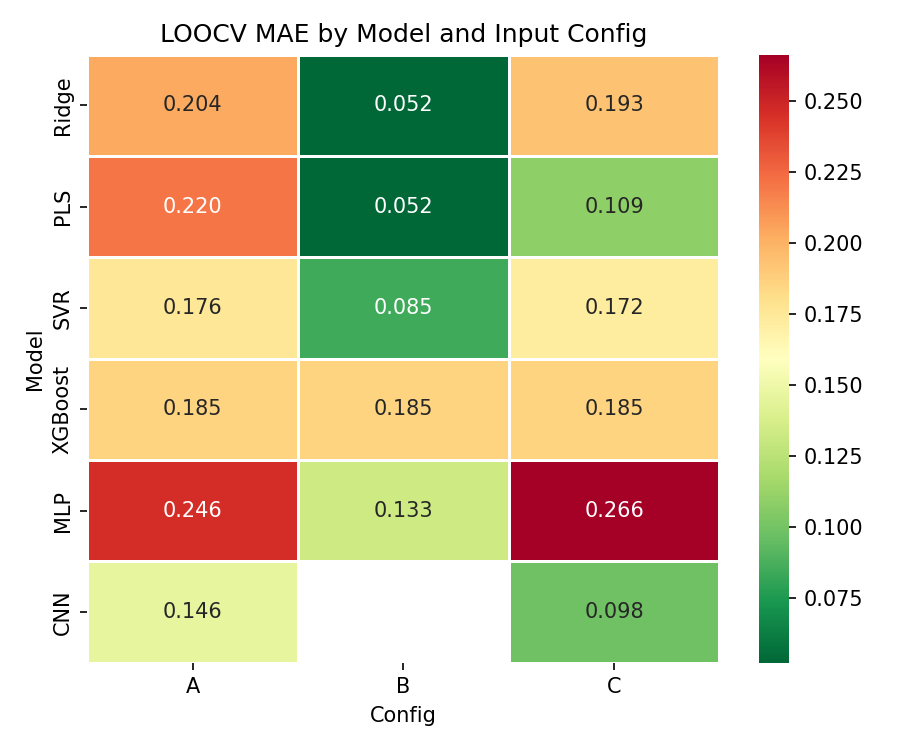
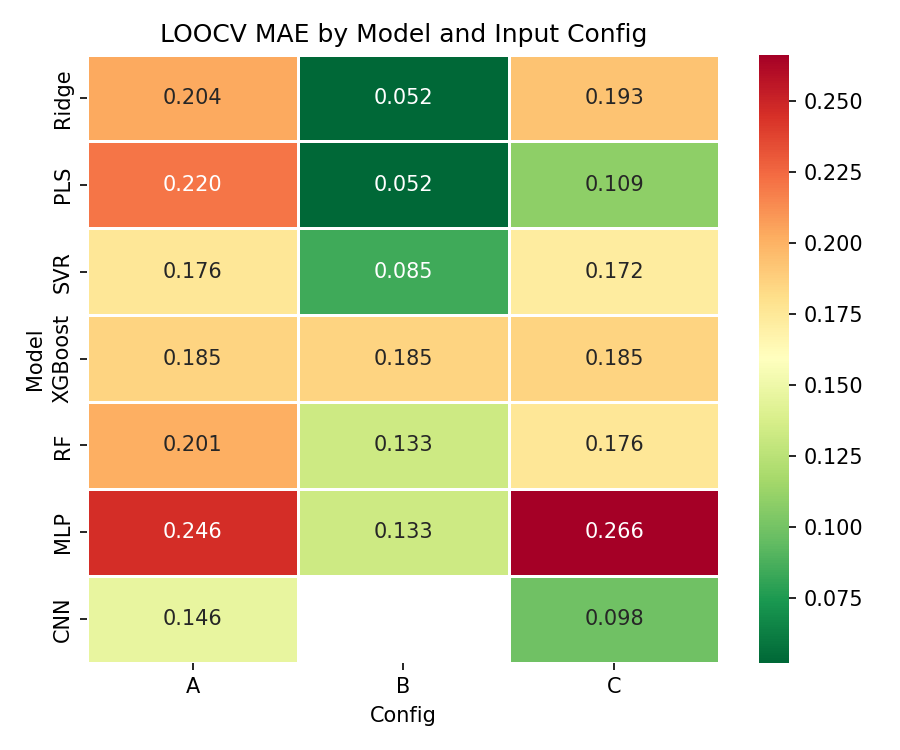
Refactor code structure for improved readability and maintainability

diff --git a/phase1/plotting.py b/phase1/plotting.py
@@ -72,7 +72,7 @@ def plot_all_predicted_vs_actual(all_results, save_dir=None):
 
 def plot_summary_heatmap(results_df, metric, save_path=None):
     pivot = results_df.pivot(index="Model", columns="Config", values=metric)
-    model_order = ["Ridge", "PLS", "SVR", "XGBoost", "MLP", "CNN"]
+    model_order = ["Ridge", "PLS", "SVR", "XGBoost", "RF", "MLP", "CNN"]
     pivot = pivot.reindex([m for m in model_order if m in pivot.index])
 
     fig, ax = plt.subplots(figsize=(6, 5))
@@ -87,7 +87,7 @@ def plot_summary_heatmap(results_df, metric, save_path=None):
 
 def plot_model_comparison_bar(results_df, save_path=None):
     fig, ax = plt.subplots(figsize=(10, 5))
-    model_order = ["Ridge", "PLS", "SVR", "XGBoost", "MLP", "CNN"]
+    model_order = ["Ridge", "PLS", "SVR", "XGBoost", "RF", "MLP", "CNN"]
     df = results_df.copy()
     df["Model"] = pd.Categorical(df["Model"], categories=model_order, ordered=True)
     df = df.sort_values("Model")

diff --git a/phase1/evaluation.py b/phase1/evaluation.py
@@ -12,6 +12,7 @@ from .models.svr import SVRModel
 from .models.xgboost_model import XGBoostModel
 from .models.mlp import MLPModel
 from .models.cnn import CNNModel
+from .models.rf import RFModel
 
 
 def compute_metrics(y_true, y_pred):
@@ -117,13 +118,14 @@ def _create_model(model_name):
         "XGBoost": XGBoostModel,
         "MLP": MLPModel,
         "CNN": CNNModel,
+        "RF": RFModel,
     }
     return factories[model_name]()
 
 
 def run_all_evaluations(data, pca_k):
     """Run all model x config combinations. Returns (list of result dicts, summary DataFrame)."""
-    model_names = ["Ridge", "PLS", "SVR", "XGBoost", "MLP", "CNN"]
+    model_names = ["Ridge", "PLS", "SVR", "XGBoost", "RF", "MLP", "CNN"]
     config_names = ["A", "B", "C"]
     all_results = []
 

diff --git a/phase1/models/rf.py b/phase1/models/rf.py
@@ -1,0 +1,19 @@
+import numpy as np
+from sklearn.ensemble import RandomForestRegressor
+from ..config import RF_PARAMS, RANDOM_SEED
+
+
+class RFModel:
+    def __init__(self, params=None):
+        self.params = params or RF_PARAMS
+        self.model = None
+
+    def fit(self, X_train, y_train):
+        self.model = RandomForestRegressor(
+            **self.params,
+            random_state=RANDOM_SEED,
+        )
+        self.model.fit(X_train, y_train)
+
+    def predict(self, X_test):
+        return self.model.predict(np.atleast_2d(X_test)).ravel()

diff --git a/phase1/config.py b/phase1/config.py
@@ -37,6 +37,13 @@ XGBOOST_PARAMS = {
     "colsample_bytree": 0.8,
 }
 
+RF_PARAMS = {
+    "n_estimators": 100,
+    "max_depth": 3,
+    "min_samples_split": 5,
+    "min_samples_leaf": 2,
+}
+
 MLP_CONFIG = {
     "hidden_sizes": [32, 16],
     "dropout": 0.4,
